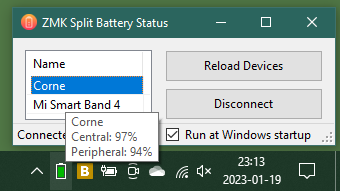
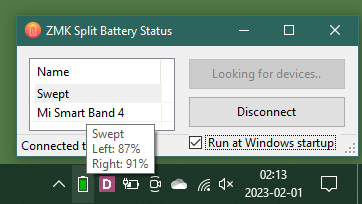
build as swept shield

diff --git a/CHANGELOG.md b/CHANGELOG.md
@@ -1,5 +1,9 @@
 # CHANGELOG
 
+## 5.0.0
+
+- Change shield from `corne` to `swept`
+
 ## 4.0.0
 
 - Update `AHK` scripts to version 2
